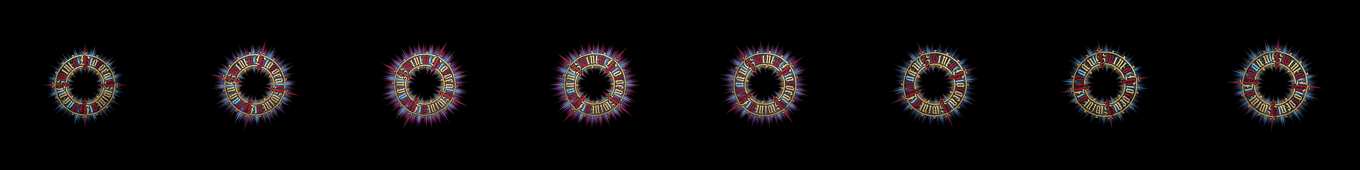
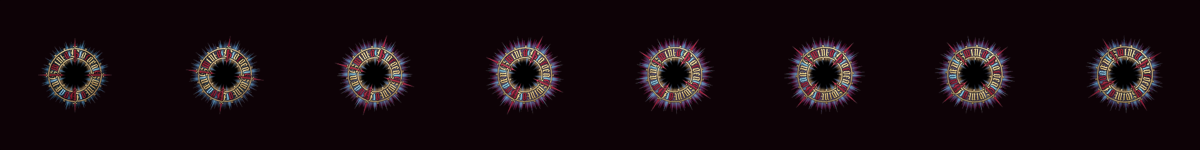
第二批技能特效預覽頁：10 把武器的手繪動畫序列

diff --git a/vfx2-preview.html b/vfx2-preview.html
@@ -1,0 +1,151 @@
+<title>第二批技能特效</title>
+<style>
+:root{
+  --ground:#EDE9EC; --card:#FFFFFF; --line:#D8D0D6;
+  --ink:#241A22; --ink-soft:#6E6270;
+  --gold:#8A6A1F; --canvas:#0D0206;
+  --ok-bg:#E7F0E4; --ok-ink:#33612B;
+  --warn-bg:#F3EBDC; --warn-ink:#7A5A17;
+}
+@media (prefers-color-scheme:dark){:root:not([data-theme="light"]){
+  --ground:#0D0206; --card:#170C12; --line:#2E1F28;
+  --ink:#F2ECD8; --ink-soft:#9C8FA0;
+  --gold:#E8C46A; --canvas:#0D0206;
+  --ok-bg:#16301A; --ok-ink:#8FD69A;
+  --warn-bg:#33280F; --warn-ink:#E8C46A;
+}}
+:root[data-theme="dark"]{
+  --ground:#0D0206; --card:#170C12; --line:#2E1F28;
+  --ink:#F2ECD8; --ink-soft:#9C8FA0;
+  --gold:#E8C46A; --canvas:#0D0206;
+  --ok-bg:#16301A; --ok-ink:#8FD69A;
+  --warn-bg:#33280F; --warn-ink:#E8C46A;
+}
+*{box-sizing:border-box}
+body{
+  margin:0; padding:24px 16px 64px;
+  background:var(--ground); color:var(--ink);
+  font-family:-apple-system,BlinkMacSystemFont,"PingFang TC","Noto Sans TC",sans-serif;
+  line-height:1.65; -webkit-font-smoothing:antialiased;
+}
+.wrap{max-width:1000px;margin:0 auto;display:flex;flex-direction:column;gap:22px}
+.masthead{border-bottom:1px solid var(--line);padding-bottom:16px}
+.eyebrow{font-size:11px;letter-spacing:.2em;text-transform:uppercase;color:var(--gold);font-weight:600}
+h1{margin:4px 0 6px;font-size:clamp(21px,5vw,30px);font-weight:600;letter-spacing:-.01em;text-wrap:balance}
+.lede{margin:0;color:var(--ink-soft);font-size:14px;max-width:62ch}
+h2.sec{margin:6px 0 -6px;font-size:13px;letter-spacing:.14em;text-transform:uppercase;color:var(--ink-soft);font-weight:600}
+.fx{background:var(--card);border:1px solid var(--line);border-radius:10px;overflow:hidden}
+.fx-head{display:flex;align-items:center;gap:10px;flex-wrap:wrap;padding:14px 16px 10px}
+.fx-head h3{margin:0;font-size:17px;font-weight:600;color:var(--gold)}
+.fx-id{font-family:ui-monospace,Menlo,monospace;font-size:11.5px;color:var(--ink-soft)}
+.tag{margin-left:auto;padding:1px 9px;border-radius:999px;font-size:12px;font-weight:600;white-space:nowrap;
+  background:var(--ok-bg);color:var(--ok-ink)}
+.tag.reuse{background:var(--warn-bg);color:var(--warn-ink)}
+.fx-strip{overflow-x:auto;background:var(--canvas);border-top:1px solid var(--line);border-bottom:1px solid var(--line);-webkit-overflow-scrolling:touch}
+.fx-strip img{display:block;width:100%;min-width:680px;height:auto}
+.fx-meta{display:grid;grid-template-columns:auto 1fr;gap:3px 12px;margin:0;padding:12px 16px 14px;font-size:13px}
+.fx-meta dt{color:var(--ink-soft);white-space:nowrap}
+.fx-meta dd{margin:0}
+.hint{padding:6px 16px 0;font-size:11.5px;color:var(--ink-soft)}
+.note{border-left:2px solid var(--gold);padding:10px 0 10px 14px;color:var(--ink-soft);font-size:13.5px;
+  display:flex;flex-direction:column;gap:10px}
+.note h3{margin:0;font-size:15px;font-weight:600;color:var(--ink)}
+code{font-family:ui-monospace,Menlo,monospace;font-size:12px;color:var(--ink)}
+</style>
+
+<div class="wrap">
+  <div class="masthead">
+    <div class="eyebrow">Vampire Revenge · 第二批特效</div>
+    <h1>十把武器的手繪動畫</h1>
+    <p class="lede">總表裡標「程序化視覺」的十把武器，現在每一把都有自己的 14 幀手繪序列。九支新生成、一支沿用遊戲裡現有的蝙蝠素材。全部已去背，襯在遊戲實際的深色地面上。<strong>還沒套進遊戲</strong>——等你確認。</p>
+  </div>
+
+  <h2 class="sec">基礎武器</h2>
+
+  <article class="fx">
+    <div class="fx-head"><h3>十字斬</h3><code class="fx-id">slash</code><span class="tag">重生成後採用</span></div>
+    <div class="fx-strip"><img alt="十字斬逐幀" src="vfx2/slash.png"></div>
+    <p class="hint">← 左右滑動看完整幀序列</p>
+    <dl class="fx-meta">
+      <dt>改了什麼</dt><dd>第一版生出來是閉合的圓環，會讓玩家以為十字斬是全方位的。改成武器名字本來就講明的形狀：兩道交叉的斬擊</dd>
+    </dl>
+  </article>
+
+  <article class="fx">
+    <div class="fx-head"><h3>魔法飛彈</h3><code class="fx-id">magic_bolt</code><span class="tag">已修正</span></div>
+    <div class="fx-strip"><img alt="魔法飛彈逐幀（修正後）" src="vfx2/magic_bolt.png"></div>
+    <dl class="fx-meta">
+      <dt>修正</dt><dd>轉正 13 度、收掉外圈霓虹光暈、降 22% 彩度——都是拆格後處理，沒有重花錢重生成</dd>
+      <dt>老實說</dt><dd>底子還是偏發光型，後處理只能收掉光暈，變不出厚塗筆觸。不滿意的話要重生成（約 $0.32）</dd>
+    </dl>
+  </article>
+
+  <article class="fx">
+    <div class="fx-head"><h3>魔法飛彈（修正前對照）</h3><code class="fx-id">magic_bolt raw</code></div>
+    <div class="fx-strip"><img alt="魔法飛彈逐幀（原始）" src="vfx2/magic_bolt_raw.png"></div>
+  </article>
+
+  <article class="fx">
+    <div class="fx-head"><h3>飛刀</h3><code class="fx-id">knife</code><span class="tag">採用</span></div>
+    <div class="fx-strip"><img alt="飛刀逐幀" src="vfx2/knife.png"></div>
+    <dl class="fx-meta">
+      <dt>動作</dt><dd>原地旋轉的循環。中間有一兩幀刀刃轉到側面幾乎看不見，那是旋轉本來就會有的</dd>
+    </dl>
+  </article>
+
+  <article class="fx">
+    <div class="fx-head"><h3>聖光書</h3><code class="fx-id">orbit_book</code><span class="tag">採用</span></div>
+    <div class="fx-strip"><img alt="聖光書逐幀" src="vfx2/orbit_book.png"></div>
+  </article>
+
+  <article class="fx">
+    <div class="fx-head"><h3>大蒜光環</h3><code class="fx-id">aura</code><span class="tag">採用</span></div>
+    <div class="fx-strip"><img alt="大蒜光環逐幀" src="vfx2/aura.png"></div>
+    <dl class="fx-meta">
+      <dt>注意</dt><dd>比原本設想的「柔邊光暈」硬一些，是條有厚度的環。尺寸會吃武器半徑，Lv1 到 Lv6 會自然放大</dd>
+    </dl>
+  </article>
+
+  <article class="fx">
+    <div class="fx-head"><h3>血蝠群</h3><code class="fx-id">blood_bat</code><span class="tag reuse">沿用現有素材</span></div>
+    <div class="fx-strip"><img alt="血蝠逐幀" src="vfx2/blood_bat.png"></div>
+    <dl class="fx-meta">
+      <dt>來源</dt><dd>遊戲裡蝙蝠敵人的 12 幀拍翅動畫，縮小後當投射物用</dd>
+      <dt>省下</dt><dd>一支生成費用約 $0.32</dd>
+    </dl>
+  </article>
+
+  <h2 class="sec">進化武器</h2>
+
+  <article class="fx">
+    <div class="fx-head"><h3>星殞裁判</h3><code class="fx-id">starfall</code><span class="tag">採用</span></div>
+    <div class="fx-strip"><img alt="星殞裁判逐幀" src="vfx2/starfall.png"></div>
+    <dl class="fx-meta">
+      <dt>朝向</dt><dd>頭朝上、尾焰朝下，正好符合遊戲「素材朝上、程式轉到飛行方向」的約定，不用轉正</dd>
+    </dl>
+  </article>
+
+  <article class="fx">
+    <div class="fx-head"><h3>千刃流星</h3><code class="fx-id">bladestorm</code><span class="tag">採用</span></div>
+    <div class="fx-strip"><img alt="千刃流星逐幀" src="vfx2/bladestorm.png"></div>
+  </article>
+
+  <article class="fx">
+    <div class="fx-head"><h3>聖光守護陣</h3><code class="fx-id">holy_garden</code><span class="tag">採用</span></div>
+    <div class="fx-strip"><img alt="聖光守護陣逐幀" src="vfx2/holy_garden.png"></div>
+  </article>
+
+  <article class="fx">
+    <div class="fx-head"><h3>血月獠牙</h3><code class="fx-id">bloodmoon</code><span class="tag">採用</span></div>
+    <div class="fx-strip"><img alt="血月獠牙逐幀" src="vfx2/bloodmoon.png"></div>
+    <dl class="fx-meta">
+      <dt>踩到的坑</dt><dd>這支 AI 把畫面畫成「深色畫板上的插圖」，板子跟蝙蝠相連，邊界連通去背判定不出來、整塊深色板子被當成主體留著。先裁掉外框、再用亮度門檻補刀才乾淨</dd>
+    </dl>
+  </article>
+
+  <div class="note">
+    <h3>花費與後續</h3>
+    <p>這一輪共生成 10 支影片（含十字斬重生成一次、三支試樣），4 秒 720p 每支約 $0.32，合計約 <strong>$3.20</strong>。血蝠群沿用現有素材省下約 $0.32。過程中沒有遇到 Grok 額度不足。</p>
+    <p>全部都還在暫存路徑，<strong>沒有動到遊戲專案的 <code>Assets/</code></strong>。你說 OK 之後我才會搬進去、接上各家族的播放程式碼，再用實機截圖驗一輪給你看。</p>
+  </div>
+</div>
